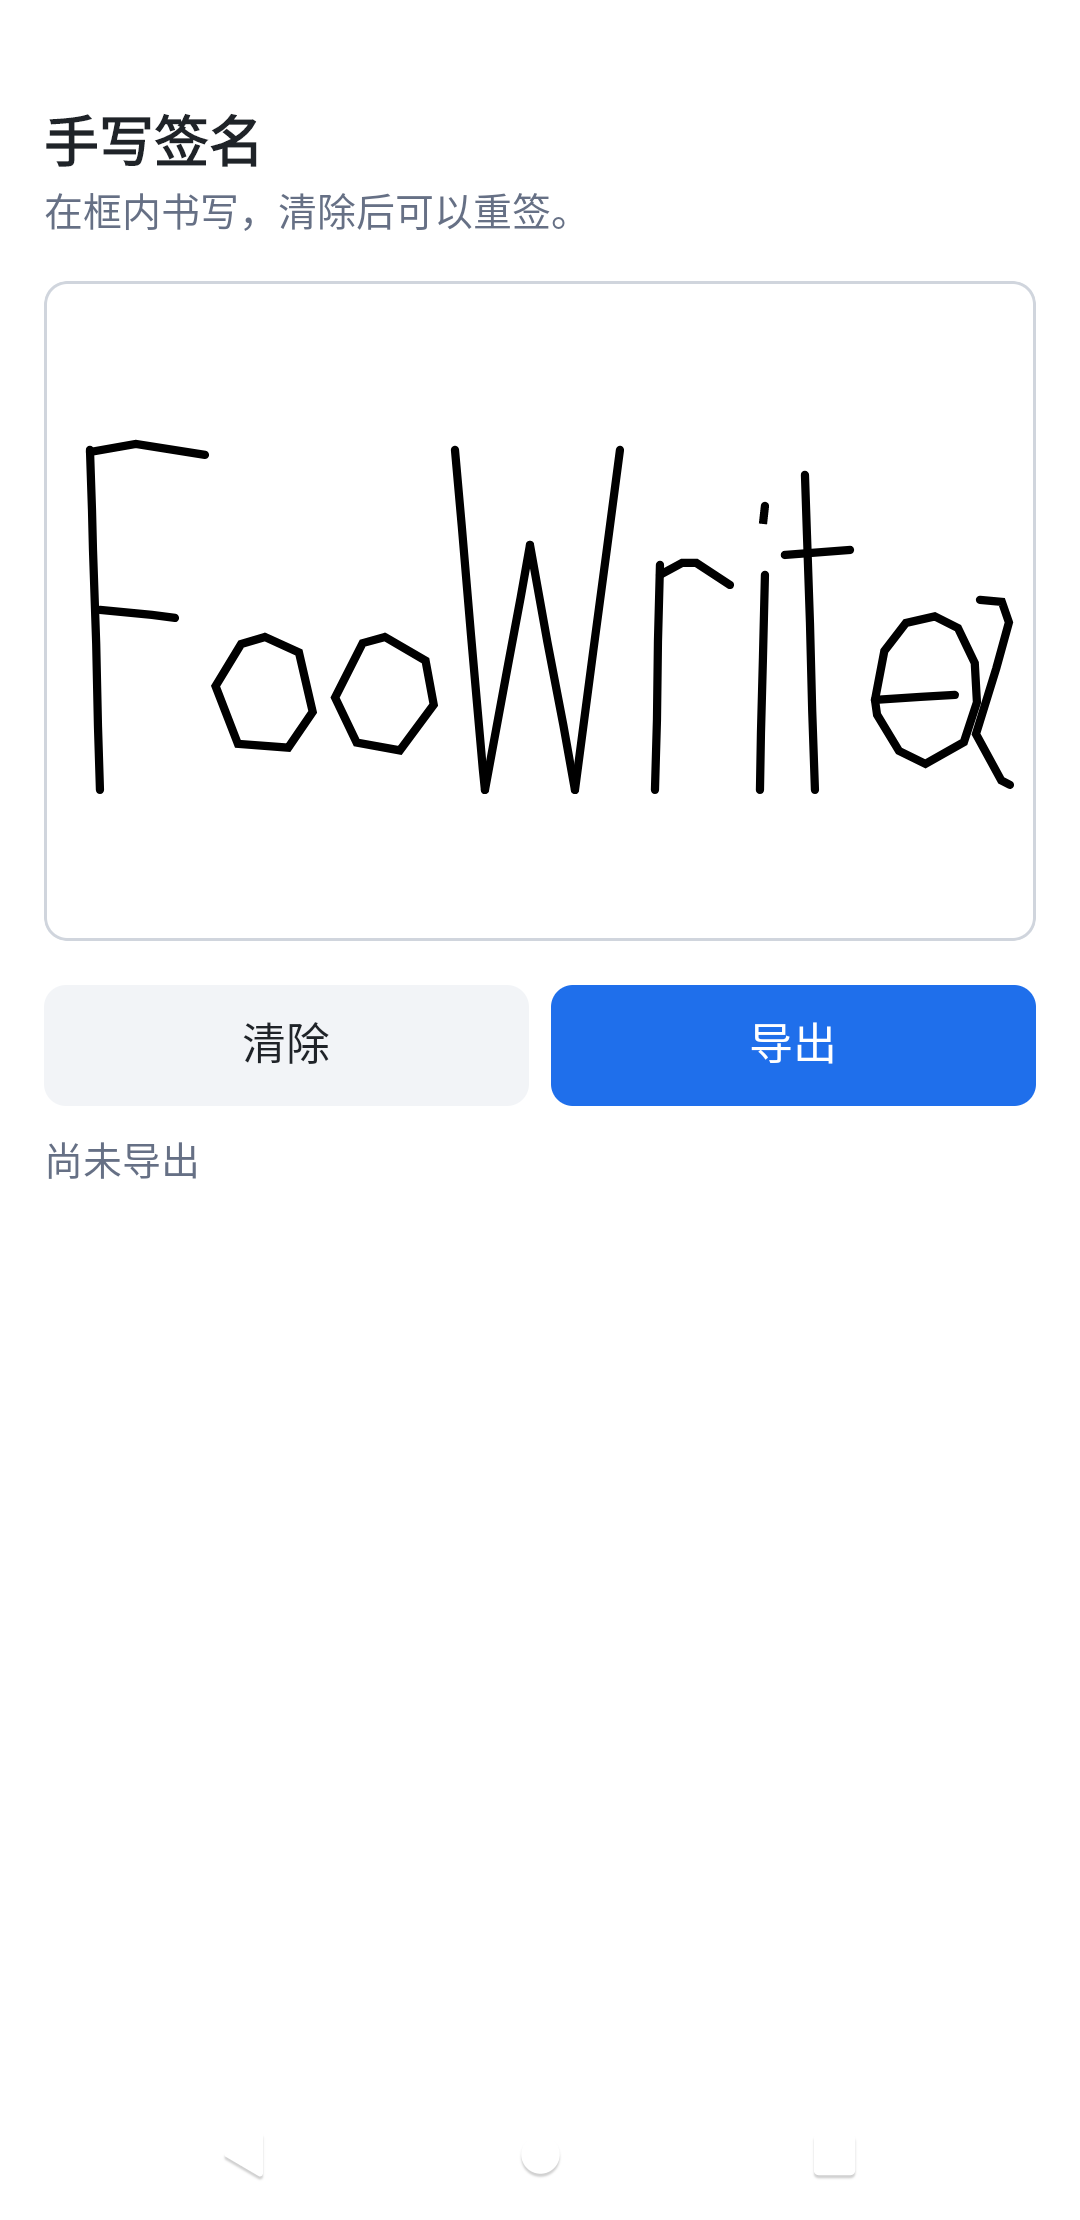
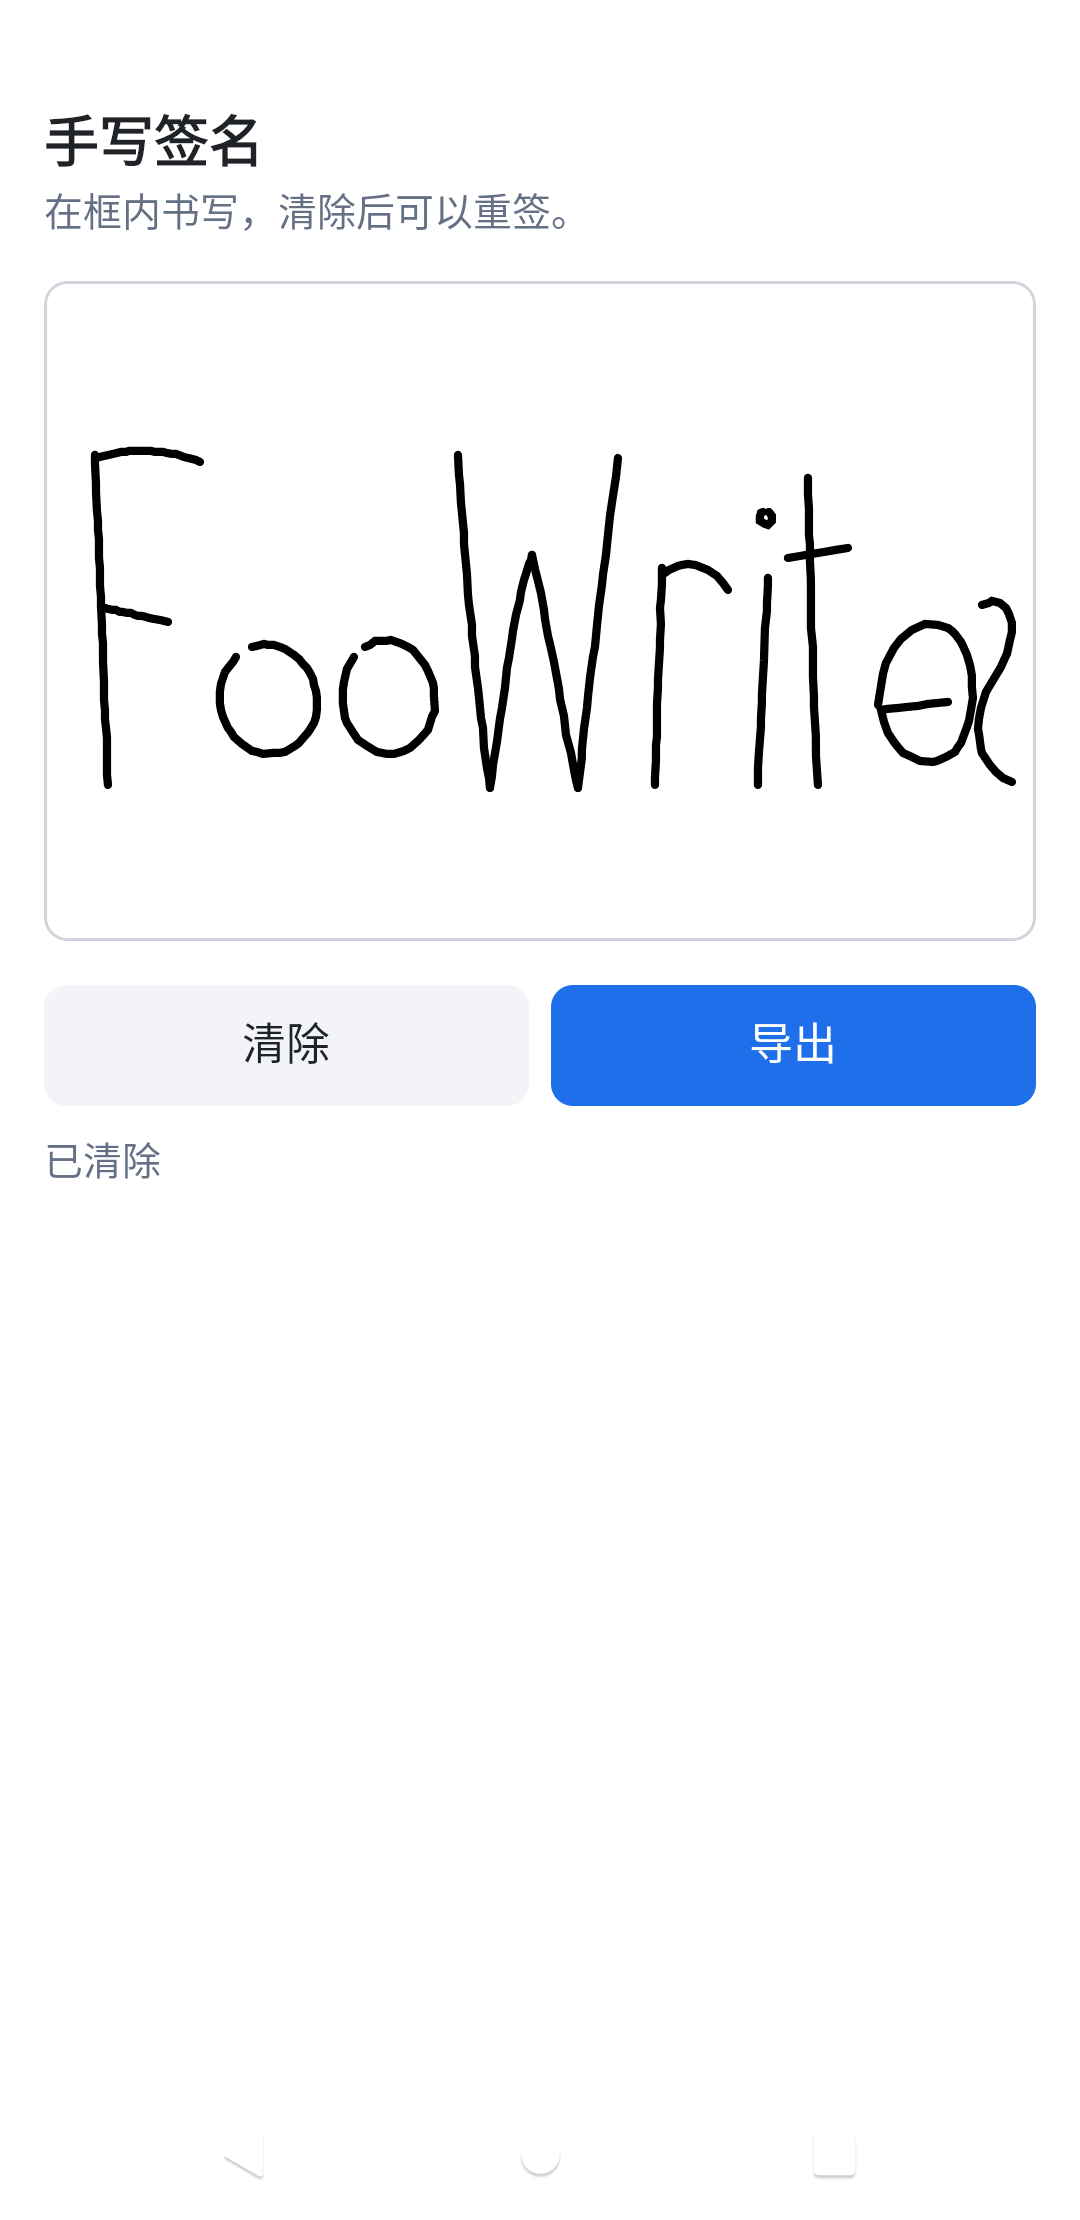
更新手写签名空态与书写效果图 (#2)
空态和书写后的 Android 截图换成当前界面：占位或笔迹，状态为「已清除」。导出预览图未改。

diff --git a/README.md b/README.md
@@ -21,7 +21,7 @@ Kuikly 手写签名板，自研 DSL 与 Compose DSL 都能用。
   </tr>
 </table>
 
-空态显示占位「请在此签名」，状态为「尚未导出」。书写后笔迹留在画板上，状态仍是「尚未导出」。导出后状态为「已导出」，并出现预览图。
+空态显示占位「请在此签名」，状态为「已清除」。书写后笔迹留在画板上，状态仍是「已清除」。导出后状态为「已导出」，并出现预览图。
 
 ## 安装
 
